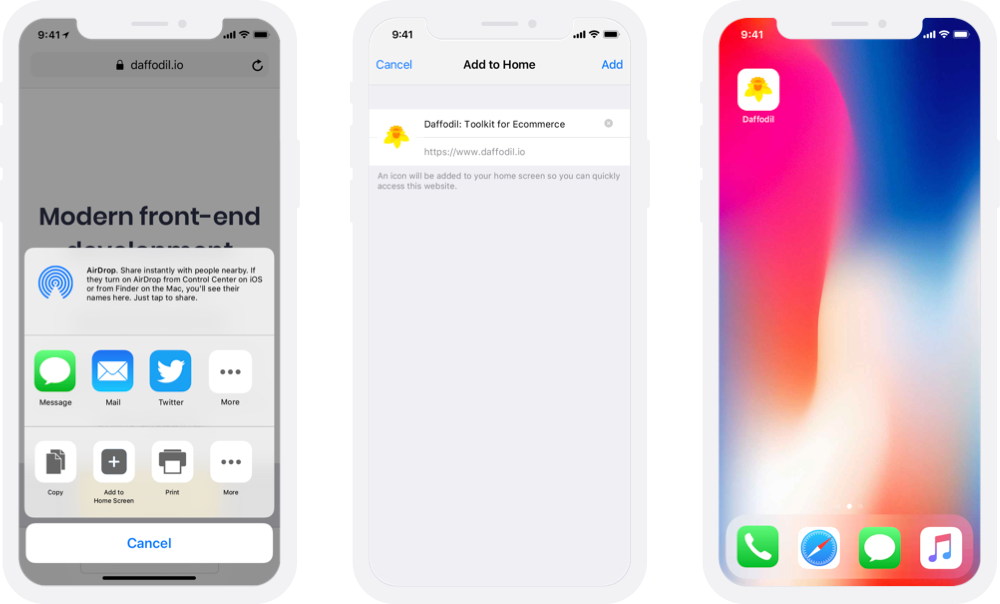
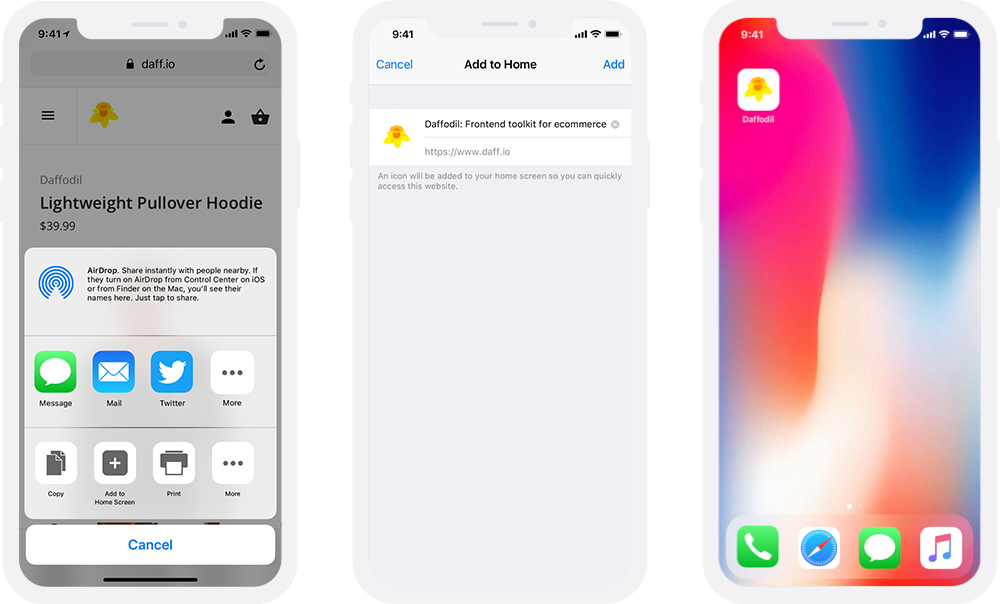
feat(daffio): create daff.io home page

diff --git a/apps/daffio/src/app/content/homepage/component/homepage.component.html b/apps/daffio/src/app/content/homepage/component/homepage.component.html
@@ -1,66 +1,75 @@
 <daff-hero layout="centered">
   <daff-container size="md">
     <h1 daff-hero-title>
-      Modern front-end development toolkit for ecommerce PWAs
+      A modern front-end development toolkit for ecommerce
     </h1>
     <h2 daff-hero-subtitle>
-      Build your store with ease and flexibility &mdash; take advantage of the cutting edge with Angular (6+), Redux and Progressive Web Apps.
+      Build your store with ease and flexibility &mdash; take advantage of the cutting edge with Angular, Redux and Progressive Web Apps.
     </h2>
     <div daff-button-set class="hero-button-set">
-      <button daff-button color="primary">See on Github</button>
-      <button daff-stroked-button color="black">Learn More</button>
+      <a href="https://github.com/graycoreio/daffodil" target="_blank" daff-button color="primary">Get Started</a>
     </div>
   </daff-container>
 </daff-hero>
 
 <daff-callout layout="centered" class="pwa">
-  <daff-container size="md">
+  <daff-container size="xl">
     <h3 daff-callout-title>
-      Written with Progressive Web Apps in mind
+      Build the next generation of ecommerce stores
     </h3>
     <p daff-callout-body>
-      Utilize tools like TypeScript, Redux and Angular (6+) to build your eCommerce store.
+      Deliver high quality user experiences by leveraging the benefits of PWAs.
     </p>
-    <div class="grid">
-      <img class="grid__image" src="/assets/pwa-screens.png" />
-      <daff-list type="multi-line">
+    <div class="pwa__grid">
+      <div class="pwa__images">
+        <daffio-iphone>
+            <img src="/assets/pwa-install-add.svg" />
+        </daffio-iphone>
+        <daffio-iphone>
+            <img src="/assets/pwa-install-info.svg" />
+        </daffio-iphone>
+        <daffio-iphone>
+            <img src="/assets/pwa-install-home.svg" />
+        </daffio-iphone>
+      </div>
+      <daff-list type="multi-line" class="pwa__list">
         <daff-list-item>
           <h4>Offline Support</h4>
-          <p>Lorem ipsum dolor sit amet, consectetur adipiscing elit. Vivamus vehicula lacinia tellus quis bibendum.</p>
+          <p>Take advantage of service workers to cache key assets and data on user devices. Empower your store and allow users to shop independent of network quality.</p>
         </daff-list-item>
         <daff-list-item>
-          <h4>App-Like UX & Installation</h4>
-          <p>Lorem ipsum dolor sit amet, consectetur adipiscing elit. Vivamus vehicula lacinia tellus quis bibendum.</p>
-        </daff-list-item>
-        <daff-list-item>
-          <h4>Progressive Enhancements</h4>
-          <p>Lorem ipsum dolor sit amet, consectetur adipiscing elit. Vivamus vehicula lacinia tellus quis bibendum.</p>
+          <h4>Native Functionalities</h4>
+          <p>
+            Utilize native device features like home screen access, push notifications, and immersive full screen experiences without the need of an app store.
+          </p>
         </daff-list-item>
         <daff-list-item>
           <h4>Discoverable</h4>
-          <p>Lorem ipsum dolor sit amet, consectetur adipiscing elit. Vivamus vehicula lacinia tellus quis bibendum.</p>
+          <p>Get all the benefits of a seamless mobile experience without sacrificing SEO. Just like a typical website, all content is indexable and searchable.</p>
+        </daff-list-item>
+        <daff-list-item>
+          <h4>Fast</h4>
+          <p>PWAs are light. They exponentially improve loading time, creating a smooth native performance for users.</p>
         </daff-list-item>
       </daff-list>
     </div>
-    <div class="pwa__link">
-      <a daff-link color="accent">Learn more about Progressive Web Apps <i class="fas fa-arrow-right"></i></a>
-    </div>
+    <a routerLink="/solution" daff-link class="pwa__link" color="accent" href="/solution">
+      Learn more about Progressive Web Apps <i class="fas fa-arrow-right"></i>
+    </a>
   </daff-container>
 </daff-callout>
 
-<div class="features">
-  <daff-feature>
-    <h4 daff-feature-title>Modern toolchain for front-end developers</h4>
-    <p daff-feature-body>Utilize tools like TypeScript, Redux and Angular (6+) to build your eCommerce store.</p>
-    <a daff-link color="accent" class="features__link" href="#">
-      Get started with Daffodil <i class="fas fa-arrow-right"></i>
-    </a>
-  </daff-feature>
-  <daff-feature>
-    <h4 daff-feature-title>Extendable redux datastore</h4>
-    <p daff-feature-body>Performant and fucntional client-side data management that you can extend to handle the needs of your project.</p>
-    <a daff-link color="accent" class="features__link" href="#">
-      Explore documentation <i class="fas fa-arrow-right"></i>
-    </a>
-  </daff-feature>
-</div>
+<daff-callout layout="centered" class="platform">
+  <daff-container size="md">
+    <h3 daff-callout-title>
+      Seamless multi-platform ecommerce integration
+    </h3>
+    <p daff-callout-body>
+      Transition between Magento, Shopify or any other platforms without the hassle of reinventing your front-end.
+    </p>
+    <div class="platform__logos">
+      <img src="/assets/magento-logo.svg" />
+      <img src="/assets/shopify-logo.svg" />
+    </div>
+  </daff-container>
+</daff-callout>

diff --git a/apps/daffio/src/app/content/homepage/component/homepage.component.scss b/apps/daffio/src/app/content/homepage/component/homepage.component.scss
@@ -7,9 +7,69 @@
 
 .pwa {
   background-color: daff-color($daff-gray, 100);
+  padding: 75px 25px;
+
+  @include breakpoint(mobile) {
+    padding: 100px 50px;
+  }
+  
+  @include breakpoint(big-tablet) {
+    padding: 100px 0;
+  }
+
+  &__grid {
+    display: grid;
+    align-items: center;
+    grid-template-columns: 1fr;
+    grid-gap: 50px;
+    margin: 50px 0;
+
+    @include breakpoint(big-tablet) {
+      grid-template-columns: 1fr 1fr;
+      margin: 75px 0;
+    }
+
+    @include breakpoint(small-laptop) {
+      grid-gap: 75px;
+    }
+
+    @include breakpoint(desktop) {
+      max-width: 1440px;
+      margin: 75px auto;
+    }
+  }
+
+  &__images {
+    display: grid;
+    grid-template-columns: 1fr 1fr 1fr;
+    grid-gap: 15px;
+
+    > * {
+      width: 100%;
+    }
+  }
+
+  &__list {
+    @include breakpoint(big-tablet) {
+      padding: 0 50px 0 0;
+    }
+
+    @include breakpoint(small-laptop) {
+      padding: 0 150px 0 0;
+    }
+
+    @include breakpoint(desktop) {
+      padding: 0;
+    }
+  }
 
   &__link {
+    display: block;
     text-align: center;
+    
+    > * {
+      margin-left: 5px;
+    }
   }
 }
 
@@ -33,23 +93,21 @@
     }
   }
 }
-.grid {
-  display: grid;
-  grid-template-columns: 1fr;
-  grid-gap: 50px;
-  margin: 50px 0;
 
-  @include breakpoint(tablet) {
-    grid-template-columns: 1fr 1fr;
-    margin: 75px 0;
-  }
+.platform {
+  color: $white;
+  background-color: #2D3047;
 
-  &__image {
-    display: block;
-    max-width: 100%;
-  }
+  &__logos {
+    text-align: center;
+    opacity: 0.5;
+    
+    > * {
+      padding: 0 25px;
+    }
 
-  &__list {
-    padding: 15px;
+    img {
+      max-width: 150px;
+    }
   }
 }

diff --git a/apps/daffio/src/app/content/homepage/component/homepage.component.spec.ts b/apps/daffio/src/app/content/homepage/component/homepage.component.spec.ts
@@ -4,9 +4,6 @@ import { RouterTestingModule } from '@angular/router/testing';
 import { CUSTOM_ELEMENTS_SCHEMA  } from '@angular/core';
 
 import { DaffioHomepageComponent } from './homepage.component';
-import { By } from '@angular/platform-browser';
-
-import { DaffHeroModule } from '@daffodil/design';
 
 describe('DaffioHomepageComponent', () => {
   let component: DaffioHomepageComponent;
@@ -15,8 +12,7 @@ describe('DaffioHomepageComponent', () => {
   beforeEach(async(() => {
     TestBed.configureTestingModule({
       imports: [
-        RouterTestingModule,
-        DaffHeroModule
+        RouterTestingModule
       ],
       declarations: [
         DaffioHomepageComponent
@@ -36,13 +32,5 @@ describe('DaffioHomepageComponent', () => {
 
   it('should create', () => {
     expect(component).toBeTruthy();
-  });
-
-  describe('on <daff-hero>', () => {
-    it('should set layout="centered"', () => {
-      let hero = fixture.debugElement.query(By.css('daff-hero'));
-
-      expect(hero.componentInstance.layout).toEqual('centered');
-    });
   });
 });

diff --git a/apps/daffio/src/app/design/device/iphone/iphone.component.spec.ts b/apps/daffio/src/app/design/device/iphone/iphone.component.spec.ts
@@ -1,0 +1,25 @@
+import { async, ComponentFixture, TestBed } from '@angular/core/testing';
+
+import { IphoneComponent } from './iphone.component';
+
+describe('IphoneComponent', () => {
+  let component: IphoneComponent;
+  let fixture: ComponentFixture<IphoneComponent>;
+
+  beforeEach(async(() => {
+    TestBed.configureTestingModule({
+      declarations: [ IphoneComponent ]
+    })
+    .compileComponents();
+  }));
+
+  beforeEach(() => {
+    fixture = TestBed.createComponent(IphoneComponent);
+    component = fixture.componentInstance;
+    fixture.detectChanges();
+  });
+
+  it('should create', () => {
+    expect(component).toBeTruthy();
+  });
+});

diff --git a/apps/daffio/src/app/design/device/iphone/iphone.component.scss b/apps/daffio/src/app/design/device/iphone/iphone.component.scss
@@ -1,0 +1,18 @@
+@import 'daff-util';
+
+$phone-color: $white;
+
+.iphone {
+    background: $phone-color;
+    box-shadow:
+        inset 0 -5px 15px rgba($gray,0.15), 
+        0 2px 5px 0 rgba($gray,0.2),
+        0 0 25px 10px rgba($gray,0.05);
+    border-radius: 15%/7.5%;
+    padding: 24% 2.75%;
+
+    > * {
+        display: block;
+        width: 100%;
+    }
+}

diff --git a/apps/daffio/src/app/design/device/iphone/iphone.component.ts b/apps/daffio/src/app/design/device/iphone/iphone.component.ts
@@ -1,0 +1,16 @@
+import { Component, OnInit, ViewEncapsulation } from '@angular/core';
+
+@Component({
+  selector: 'daffio-iphone',
+  templateUrl: './iphone.component.html',
+  styleUrls: ['./iphone.component.scss'],
+  encapsulation: ViewEncapsulation.None,
+})
+export class IphoneComponent implements OnInit {
+
+  constructor() { }
+
+  ngOnInit() {
+  }
+
+}

diff --git a/apps/daffio/src/app/design/device/iphone/iphone.module.ts b/apps/daffio/src/app/design/device/iphone/iphone.module.ts
@@ -1,0 +1,17 @@
+import { NgModule } from '@angular/core';
+import { CommonModule } from '@angular/common';
+
+import { IphoneComponent } from './iphone.component';
+
+@NgModule({
+  declarations: [
+    IphoneComponent
+  ],
+  exports: [
+      IphoneComponent
+  ],
+  imports: [
+    CommonModule
+  ]
+})
+export class IphoneModule { }

diff --git a/apps/daffio/src/app/content/homepage/homepage.module.ts b/apps/daffio/src/app/content/homepage/homepage.module.ts
@@ -19,6 +19,7 @@ import {
   DaffFeatureModule,
   DaffLinkModule
 } from '@daffodil/design';
+import { IphoneModule } from '../../design/device/iphone/iphone.module';
 
 @NgModule({
   imports: [
@@ -27,6 +28,7 @@ import {
     RouterModule,
     
     TemplateModule,
+    IphoneModule,
 
     DaffioHomepageRoutingModule,
 

diff --git a/libs/design/src/molecules/list/list/list.component.scss b/libs/design/src/molecules/list/list/list.component.scss
@@ -32,6 +32,10 @@
         padding: 0 0 15px 0;
       }
 
+      &:last-of-type {
+        padding: 15px 0 0 0;
+      }
+
       &__content {
         *:nth-child(1) {
           @include embolden();

diff --git a/libs/design/src/molecules/callout/callout.component.html b/libs/design/src/molecules/callout/callout.component.html
@@ -1,3 +1,3 @@
 <ng-content select="[daff-callout-title]"></ng-content>
 <ng-content select="[daff-callout-body]"></ng-content>
-<div><ng-content></ng-content></div>
+<ng-content></ng-content>

diff --git a/libs/design/src/molecules/callout/callout.component.scss b/libs/design/src/molecules/callout/callout.component.scss
@@ -39,6 +39,8 @@
 
     @include breakpoint(mobile) {
       text-align: left;
+      font-size: $medium-font-size;
+      line-height: 1.75rem;
     }
 
     @include breakpoint(big-tablet) {

diff --git a/apps/daffio/src/app/design/device/iphone/iphone.component.html b/apps/daffio/src/app/design/device/iphone/iphone.component.html
@@ -1,0 +1,3 @@
+<div class="iphone">
+    <ng-content></ng-content>
+</div>
